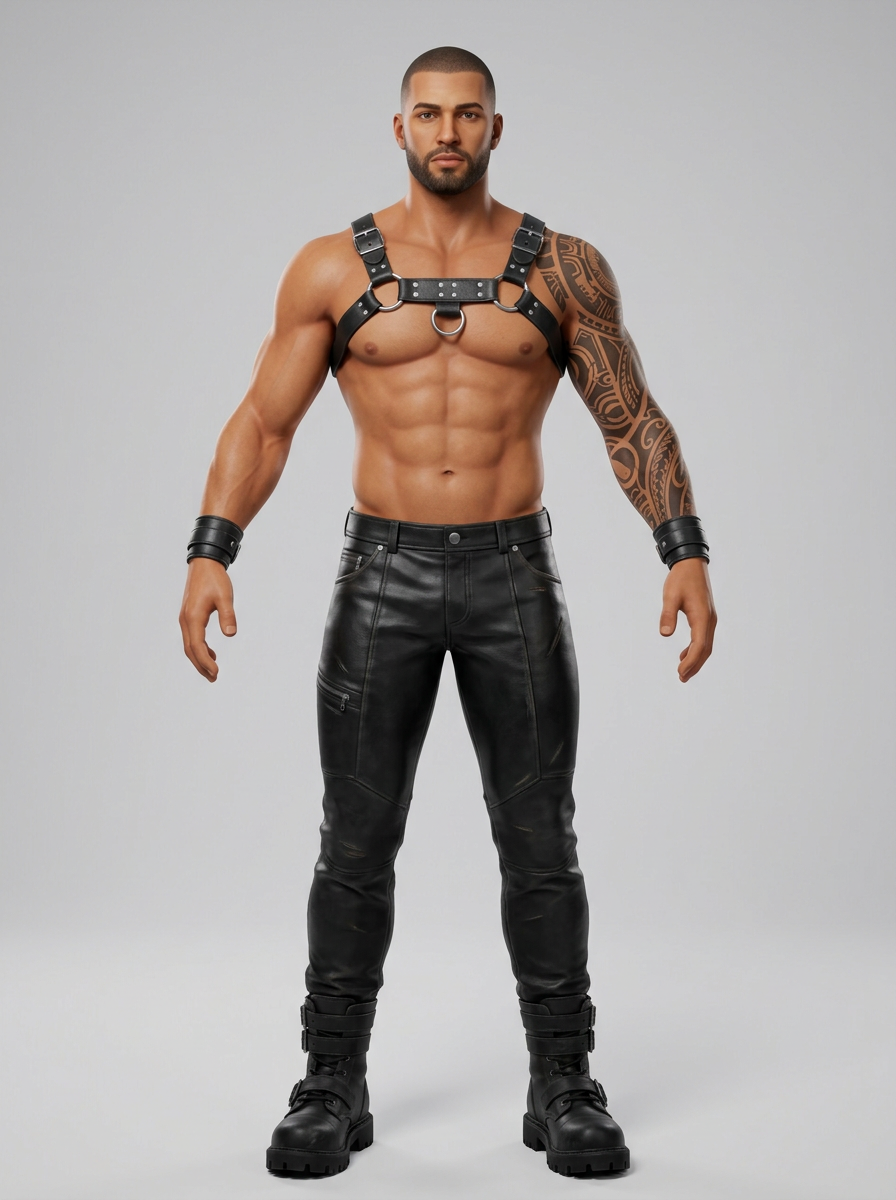
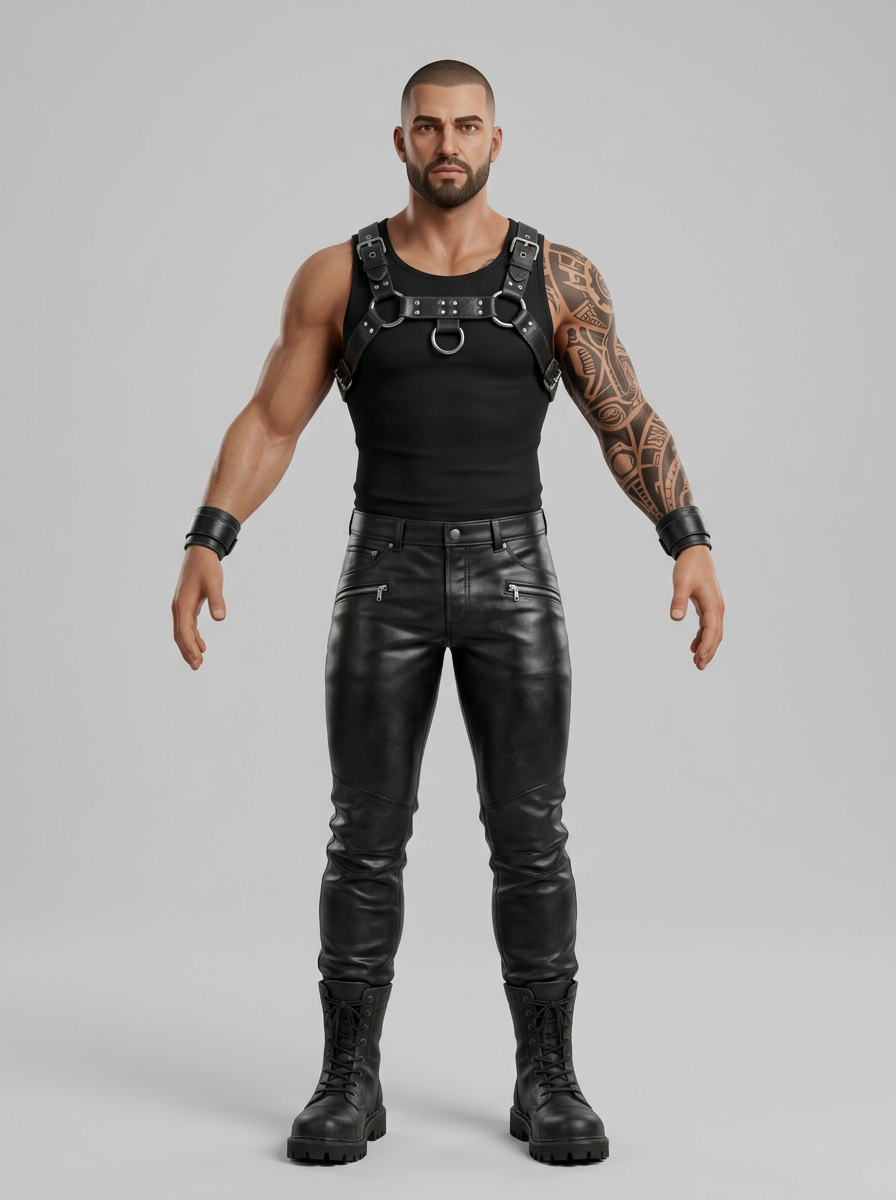
DiscoClub: glazen rechtop en in de hand, danseressen 6x elk (paal, vloer, dronken loper), gloeiende flesjes

Changed region(s): [[0.0938, 0.0308, 0.8125, 0.9867], [0.5, 0.5858, 0.5312, 0.6167]]

diff --git a/disco-club/index.html b/disco-club/index.html
@@ -721,7 +721,7 @@ const BUILD = {
 };
 // Gegenereerde 3D-mensen (models/*.glb, met skelet en dansclip). Zolang ze laden of als ze ontbreken: de gebouwde poppetjes.
 // Alle Meshy-rigs hebben dezelfde botnamen, dus elke dansclip (ook de losse dans-*.glb) past op elk figuur.
-const MODEL_FILES = { pop: ['models/pop-1.glb', 'models/rick-1.glb', 'models/burlesque-1.glb', 'models/showgirl-1.glb'], wizard: ['models/wizard-1.glb', 'models/witch-1.glb'], alien: ['models/alien-1.glb'] };
+const MODEL_FILES = { pop: ['models/pop-1.glb', 'models/rick-1.glb', 'models/burlesque-1.glb', 'models/showgirl-1.glb', 'models/man-1.glb'], wizard: ['models/wizard-1.glb', 'models/witch-1.glb'], alien: ['models/alien-1.glb', 'models/alien-2.glb'] };
 const KEEP_LOOK = /rick/;  // vaste figuren: niet herkleuren
 const DANCE_FILES = ['models/dans-65.glb', 'models/dans-66.glb', 'models/dans-594.glb', 'models/dans-84.glb', 'models/dans-63.glb'];
 const MODELS = { pop: [], wizard: [], alien: [] }, CLIPS = [], gltf = new THREE.GLTFLoader();
@@ -766,7 +766,7 @@ new THREE.BVHLoader().load(POLE_BVH, r => { poleBVH = r; buildPoleDancers(); }, 
 // Elke bron-botrichting wordt eerst op de rustrichting van het doelbot gelegd (T-pose vs A-pose),
 // daarna krijgt het doelbot dezelfde draaiing in wereldruimte als het bronbot. Gebakken naar een gewone clip.
 // paaldanseressen: de heks en de vrouw met de krullen, elk op haar eigen skelet uitgerekend
-const poleModels = () => ['burlesque', 'showgirl', 'witch', 'pop-1'].map(n => [].concat(...Object.values(MODELS)).find(M => M.file.includes(n))).filter(Boolean);
+const poleModels = () => ['burlesque', 'showgirl'].map(n => allModels().find(M => M.file.includes(n))).filter(Boolean);
 function poleClipFor(M) {
   if (POLE_CLIPS.has(M)) return POLE_CLIPS.get(M);
   const sb = poleBVH.skeleton.bones, sRoot = new THREE.Group();
@@ -907,9 +907,9 @@ function buildPoleDancers() {
 // een glas met lichtgevend drankje in de rechterhand
 const glassGeo = new THREE.CylinderGeometry(0.035, 0.028, 0.12, 12), drinkGeo = new THREE.CylinderGeometry(0.03, 0.025, 0.07, 12);
 const glassMat = new THREE.MeshPhongMaterial({ color: 0xffffff, transparent: true, opacity: 0.35, shininess: 120 });
-const bottleMat = [new THREE.MeshPhongMaterial({ color: 0x2f6b2a, shininess: 90, transparent: true, opacity: 0.85 }), new THREE.MeshPhongMaterial({ color: 0x6b3d12, shininess: 90, transparent: true, opacity: 0.85 })];
+const bottleMat = [new THREE.MeshPhongMaterial({ color: 0x3f9b38, emissive: 0x14400f, shininess: 120, transparent: true, opacity: 0.9 }), new THREE.MeshPhongMaterial({ color: 0x9b5a1c, emissive: 0x40200a, shininess: 120, transparent: true, opacity: 0.9 })];  // licht gloeiend, zichtbaar in het donker
 const cigGeo = new THREE.CylinderGeometry(0.006, 0.006, 0.085, 6), tipGeo = new THREE.SphereGeometry(0.008, 6, 4);
-const smokers = [];
+const smokers = [], held = [];
 function giveDrink(d, kind) {
   let hand = null;
   d.body.traverse(o => { if (!hand && o.isBone && /RightHand$/.test(o.name)) hand = o; });
@@ -917,23 +917,26 @@ function giveDrink(d, kind) {
   d.body.updateMatrixWorld(true);
   const g = new THREE.Group(), ws = new THREE.Vector3();
   hand.getWorldScale(ws);
+  const k = Math.abs(ws.x);  // gespiegelde figuren hebben een negatieve schaal: anders staat het glas op z'n kop
   kind = kind || pick(['glas', 'glas', 'bier']);
   if (kind === 'glas') {  // cocktail met een lichtgevend drankje: valt op in het donker
     g.add(new THREE.Mesh(glassGeo, glassMat), new THREE.Mesh(drinkGeo, new THREE.MeshBasicMaterial({ color: new THREE.Color().setHSL(pick([0.95, 0.08, 0.55, 0.3, 0.8, 0.15]), 1, 0.6) })));
     g.children[1].position.y = -0.02;
-    g.scale.setScalar(1.5 / ws.x);
+    g.scale.setScalar(1.7);
   } else if (kind === 'bier') {
     const b = new THREE.Mesh(CYL, pick(bottleMat)); b.scale.set(0.03, 0.16, 0.03); g.add(b);
     const neck = new THREE.Mesh(CYL, b.material); neck.scale.set(0.013, 0.07, 0.013); neck.position.y = 0.11; g.add(neck);
-    g.scale.setScalar(1.3 / ws.x);
+    g.scale.setScalar(1.4);
   } else {  // sigaret: wit staafje met gloeiend puntje; rook komt van het puntje
     const c = new THREE.Mesh(cigGeo, new THREE.MeshBasicMaterial({ color: 0xeeeeee })); c.rotation.z = Math.PI / 2; g.add(c);
     const tip = new THREE.Mesh(tipGeo, new THREE.MeshBasicMaterial({ color: 0xff5a1a })); tip.position.x = 0.045; g.add(tip);
-    g.scale.setScalar(1.6 / ws.x);
+    g.scale.setScalar(1.6 / k);
     smokers.push({ d, tip, next: 0 });
   }
-  g.position.set(0, 0.09 / ws.y, 0.04 / ws.z);
-  hand.add(g);
+  // het handbot wijst naar de vingers (omlaag bij een hangende arm): glas omdraaien, in de handpalm achter de vingers
+  // sigaret zit vast in de hand; glas en fles volgen alleen de plek van de hand en blijven altijd rechtop
+  if (kind === 'sigaret') { g.position.set(0, 0.1 / k, 0); hand.add(g); }
+  else { scene.add(g); held.push({ d, g, hand, off: new THREE.Vector3(0, 0.07 / k, -0.055 / k) }); }
 }
 // rookpluimpjes van de sigaretten: kleine wolkjes die opstijgen en uitwaaieren
 const wisps = [];
@@ -942,7 +945,17 @@ for (let i = 0; i < 70; i++) {
   sp.visible = false; scene.add(sp); wisps.push({ sp, age: 0, v: new THREE.Vector3() });
 }
 const tipW = new THREE.Vector3();
+function updateHeld() {
+  for (let i = held.length - 1; i >= 0; i--) {
+    const h = held[i];
+    if (!h.d.root.parent) { scene.remove(h.g); held.splice(i, 1); continue; }
+    h.g.visible = h.d.root.visible;
+    h.g.position.copy(h.off); h.hand.localToWorld(h.g.position);
+    h.g.rotation.set(0, h.d.root.rotation.y, 0);
+  }
+}
 function updateCigs(dt, now) {
+  updateHeld();
   for (let i = smokers.length - 1; i >= 0; i--) {
     const s = smokers[i];
     if (!s.d.root.parent) { smokers.splice(i, 1); continue; }
@@ -1007,10 +1020,12 @@ function recolorMat(src, full) {  // full: alles herkleuren (mensen); anders all
 }
 // elk gegenereerd figuur hooguit 3 keer in de zaal (anders zie je kopieën)
 const MAX_COPIES = 4;  // herkleurd en gespiegeld, dus geen herkenbare kopieën
-const maxOf = M => M.keep ? 2 : MAX_COPIES;
+const SEXY = /burlesque|showgirl/;
+const maxOf = M => M.keep ? 2 : SEXY.test(M.file) ? 6 : MAX_COPIES;  // de twee danseressen elk 6x, steeds anders gekleurd
 const leastUsed = list => { const ms = list.filter(M => (M.used || 0) < maxOf(M)); if (!ms.length) return null; const lo = Math.min(...ms.map(M => M.used || 0)); return pick(ms.filter(M => (M.used || 0) === lo)); };
 const freeModel = type => leastUsed(MODELS[type] || []);
-const anyModel = () => leastUsed([].concat(...Object.values(MODELS)));
+const allModels = () => [].concat(...Object.values(MODELS));
+const anyModel = () => (Math.random() < 0.45 && leastUsed(allModels().filter(M => SEXY.test(M.file)))) || leastUsed(allModels());
 const dropDancer = d => { scene.remove(d.root); if (d.M) d.M.used--; };
 function makeModelDancer(M, calm) {
   M.used = (M.used || 0) + 1;
@@ -1513,13 +1528,14 @@ function buildWalkers() {
   for (let i = 0; i < 4; i++) {
     // de eerste loper is Rick, en die is dronken
     const rick = i === 0 && [].concat(...Object.values(MODELS)).find(M => /rick/.test(M.file) && (M.used || 0) < maxOf(M));
-    const M = rick || anyModel();
+    const sexyDrunk = i === 1 && leastUsed(allModels().filter(M => SEXY.test(M.file)));
+    const M = rick || sexyDrunk || anyModel();
     if (!M) break;
     const w = makeModelDancer(M, true);
     w.root.traverse(o => { o.castShadow = false; });
     const [x, z] = RING[Math.floor(Math.random() * RING.length)];
     w.root.position.set(x + rnd(-0.5, 0.5), 0, z + rnd(-0.5, 0.5));
-    w.drunk = !!rick;
+    w.drunk = !!rick || !!sexyDrunk;
     w.state = 'wait'; w.wait = rnd(0, 6);
     if (Math.random() < 0.75) giveDrink(w, w.drunk ? 'bier' : null);
     walkers.push(w);
